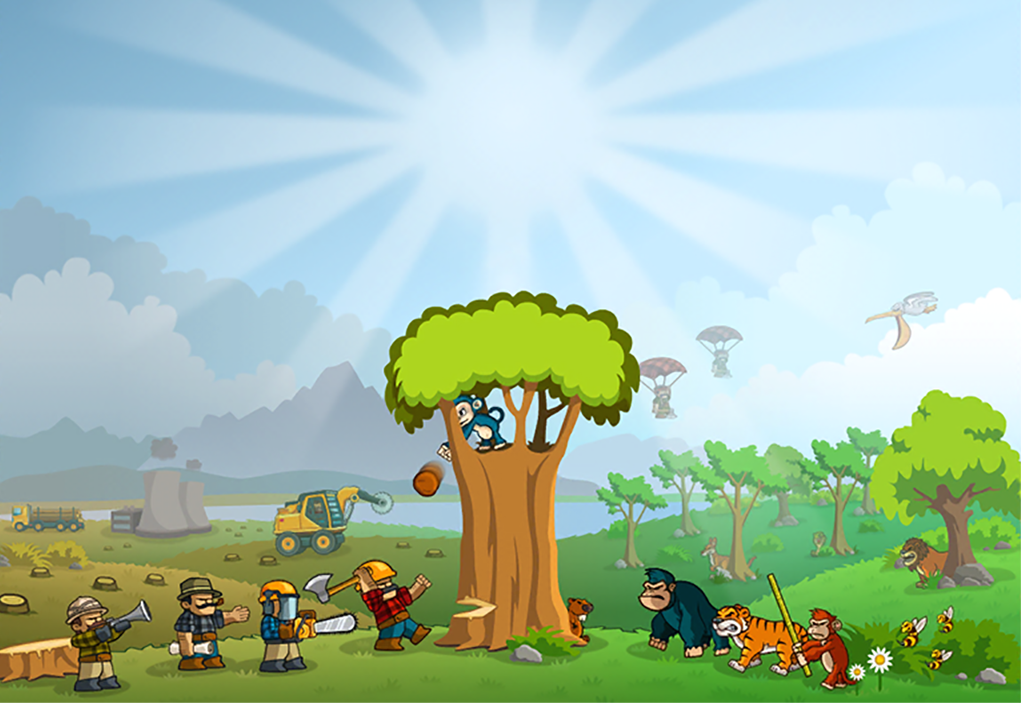
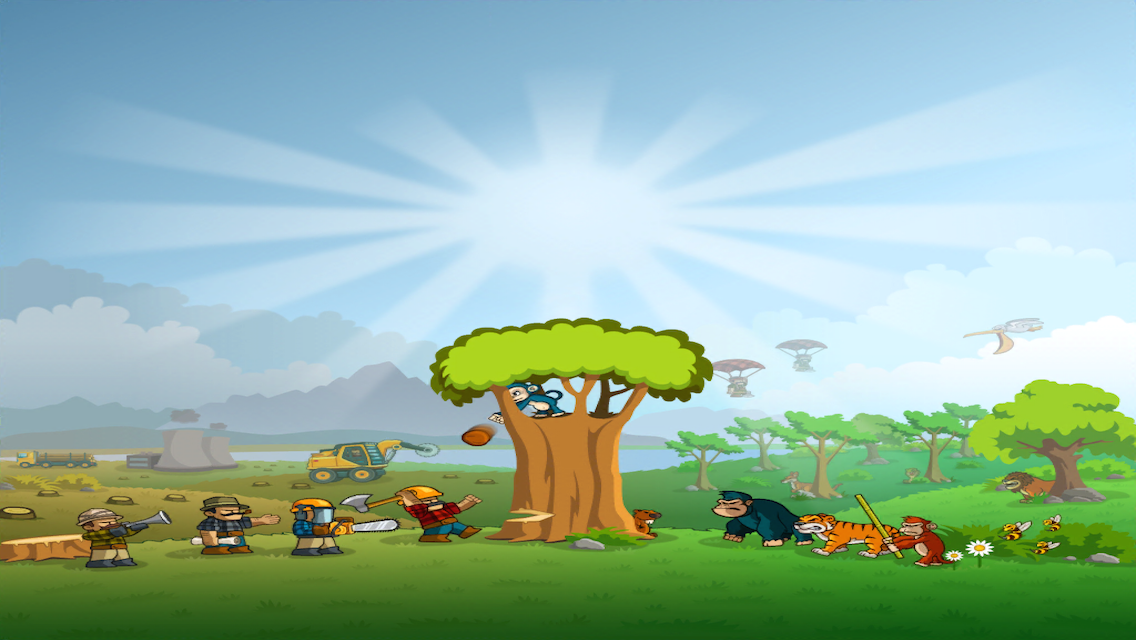
Update Main menu

diff --git a/brave/Classes/StartScene.cpp b/brave/Classes/StartScene.cpp
@@ -24,11 +24,16 @@ bool StartScene::init()
     
     SpriteFrameCache::getInstance()->addSpriteFramesWithFile("image/role.plist","image/role.pvr.ccz");
     SpriteFrameCache::getInstance()->addSpriteFramesWithFile("image/ui.plist","image/ui.pvr.ccz");
+    SpriteFrameCache::getInstance()->addSpriteFramesWithFile("image/iui.plist","image/iui.png");
     auto background = Sprite::create("image/MainMenuBG.png");
     background->setPosition(VisibleRect::center());
     this->addChild(background);
+//    
+//    auto menuBG = Sprite::create("MainMenu.png");
+//    menuBG->setPosition(VisibleRect::center());
+//    this->addChild(menuBG);
     
-    auto item = CustomTool::createMenuItemImage("start1.png", "start2.png", CC_CALLBACK_1(StartScene::onStart,this));
+    auto item = CustomTool::createMenuItemImage("play.png", "play.png", CC_CALLBACK_1(StartScene::onStart,this));
     auto menu = Menu::createWithItem(item);
     this->addChild(menu);
     return true;
